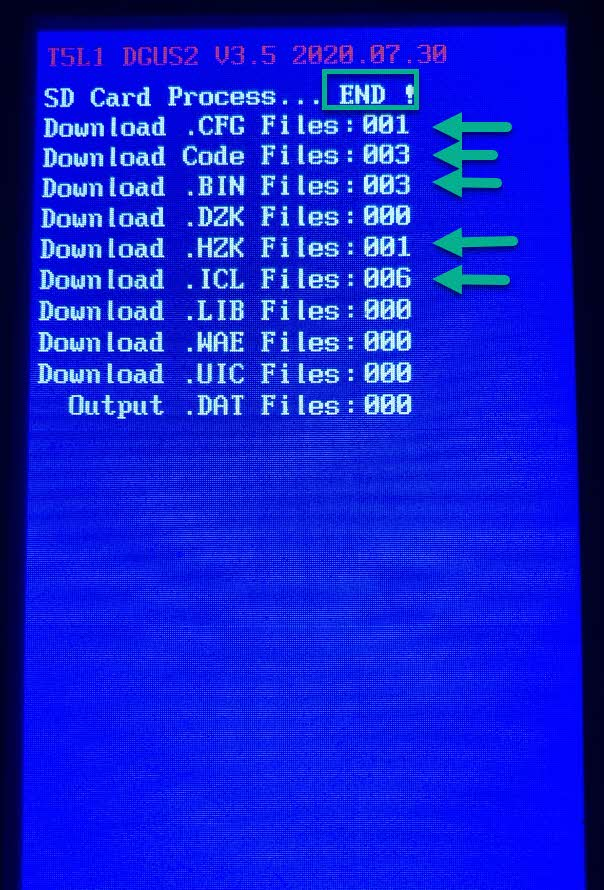
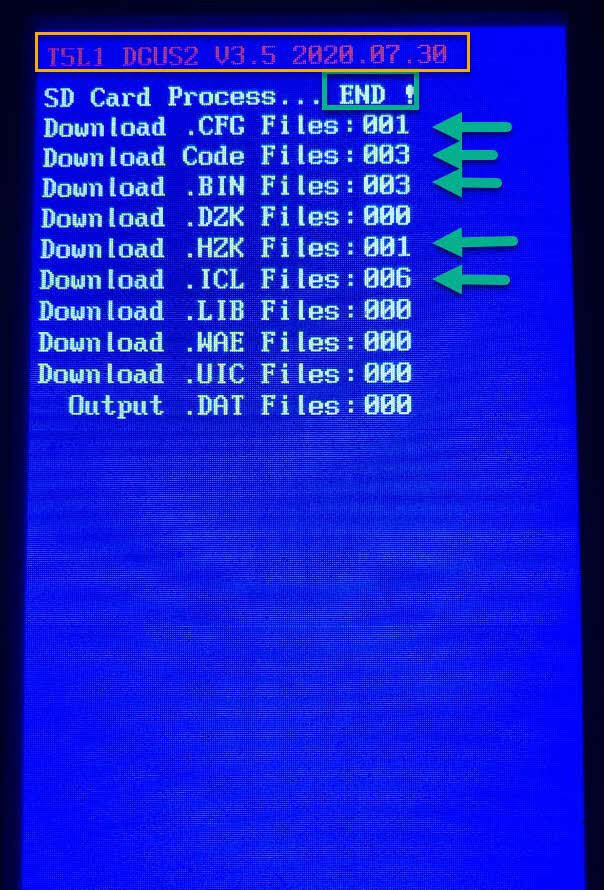
Move CR-6 kernel upgrade files to separate directory

Changed region(s): [[0.0298, 0.0303, 0.8046, 0.091]]

diff --git a/src/README.md b/src/README.md
@@ -12,6 +12,8 @@ This may seem like a chore, and it is, but you're going to need to bite the bull
 
 2. A micro-SD card of 16GB or less - of the type SD or [SDHC](https://en.wikipedia.org/wiki/SD_card#SDHC). It should be formatted FAT32 with 4096 cluster size. Read for instructions on your specific operating system below. Note that cards of type [SDXC](https://en.wikipedia.org/wiki/SD_card#SDXC) do not work. 
 
+3. The touch screen comes with a kernel upgrade for the touch screen. If you have never run the Community Firmware release 5 beta or higher and you have a Creality CR-6, move the files in the "CR-6 kernel upgrade" directory to the DWIN_SET directory.
+
 ## SD card formatting instructions
 
 ### Windows Users
@@ -91,7 +93,9 @@ https://www.youtube.com/watch?v=9jk3lirEfg0
 
 ### What does a successful flash look like
 
-The flash process is completed when you see "END!" like shown in flash_succesful.jpg. Note that there are several lines showing updated files.
+The flash process is completed when you see "END!" like shown in flash_succesful.jpg. Note that there are several lines showing updated files (numbers shown that are higher than 000).
+
+Also "T5L1 DGUS2 V3.5 2020.07.30" is shown if you are using a CR-6 printer. If you don't have this move the files in the "CR-6 kernel upgrade" folder to the DWIN_SET folder and reflash.
 
 _When flashing has been succesful, repeat the procedure and additional two to three times. The DWIN touch screen doesn't always take "all" files during flashing, so repeating it a few times (by turning the printer off and then on again) should help with that._
 
